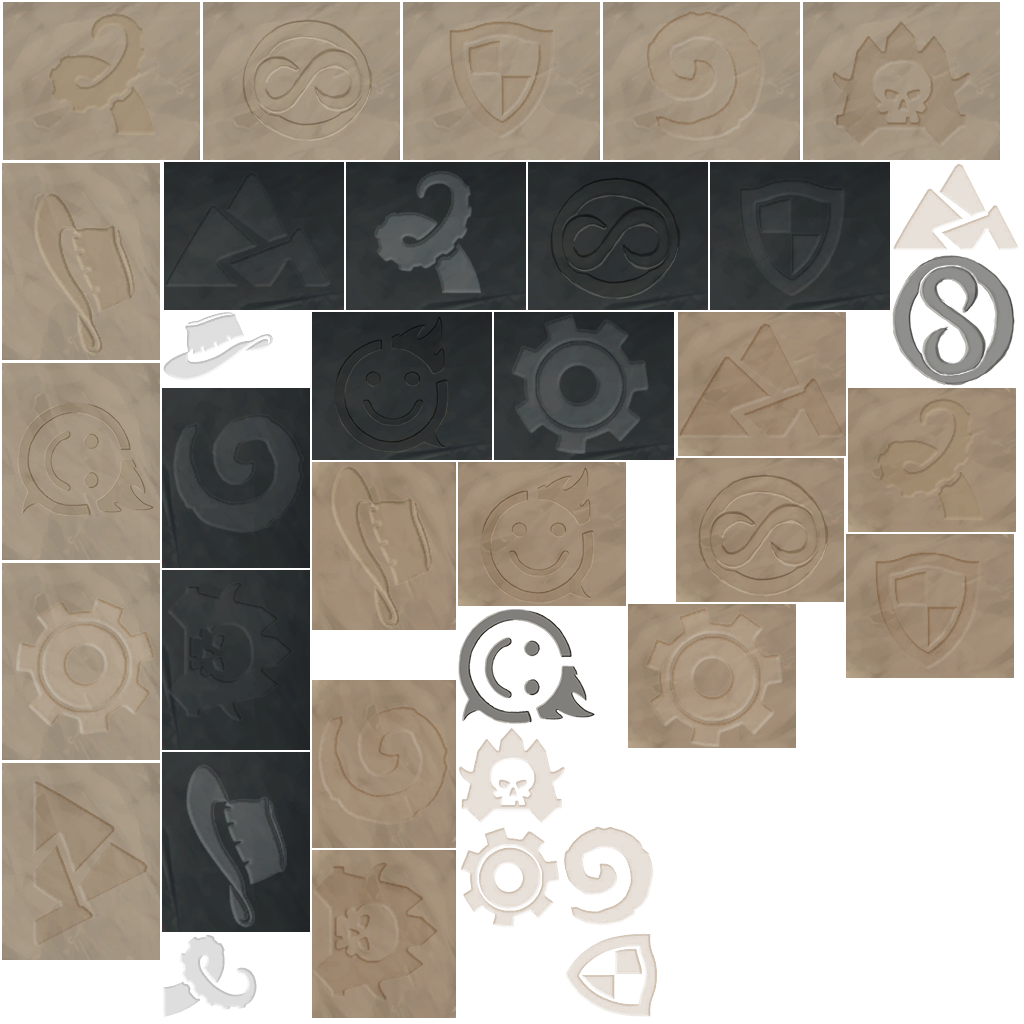
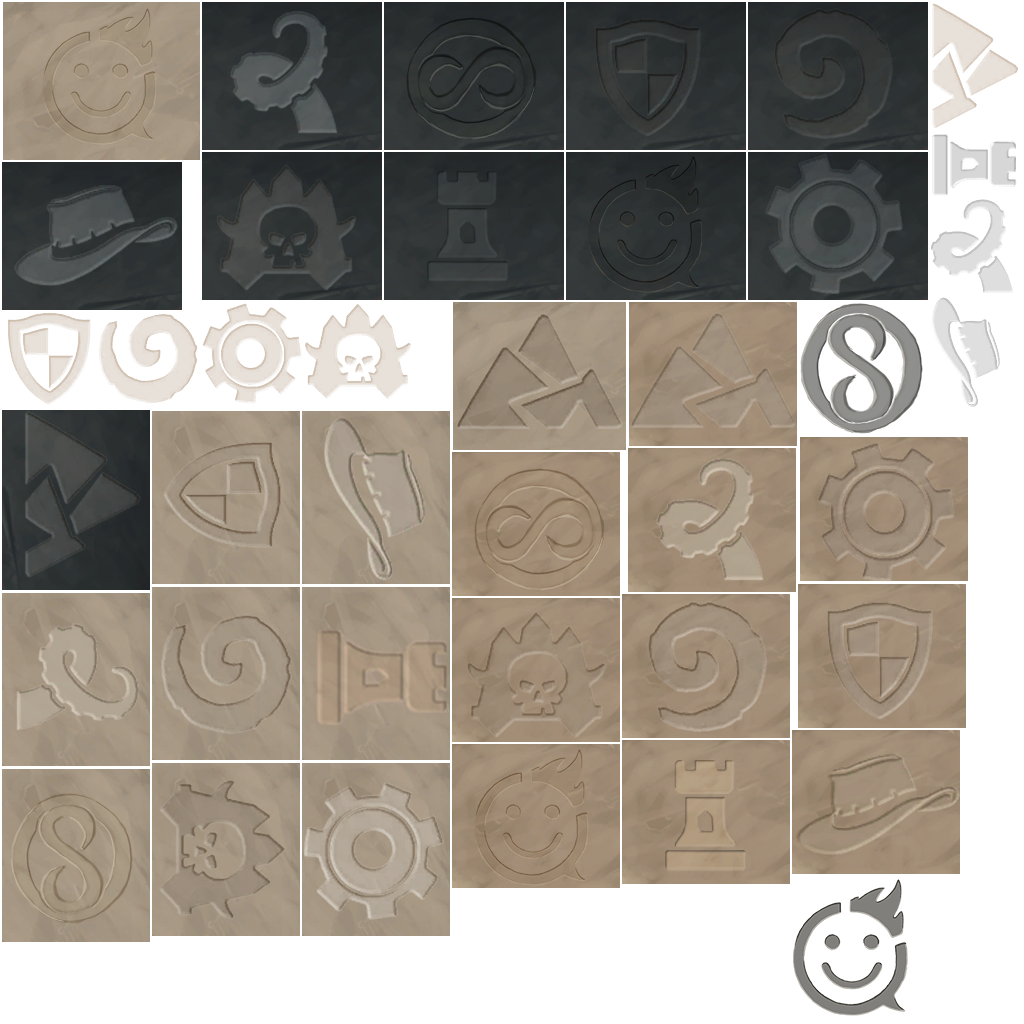
Water Mark for KLZ

diff --git a/assets/Script/UI/WMSelector.js b/assets/Script/UI/WMSelector.js
@@ -22,7 +22,7 @@ cc.Class({
     },
     changeIcon: function (a) {
         this.cur = (this.cur+a);
-        this.cur = this.cur<0?this.cur+10:(this.cur>9?this.cur-10:this.cur)
+        this.cur = this.cur<0?this.cur+11:(this.cur>10?this.cur-11:this.cur)
         cc.log(this.cur)
         
         this.ExName.getComponent("LabelProxy").string = this.ExNameStr.CN[this.cur];
@@ -60,8 +60,8 @@ cc.Class({
     // use this for initialization
     onLoad: function () {
         this.ExNameStr = {
-            EN:["PRO","NAXX","GVG","BRM","TGT","LOE","WOG","TOC","HOT","Xicon"],
-            CN:["专家级","纳克萨玛斯","地精大战侏儒","黑石山的火焰","冠军的试炼","探险者协会","上古之神的低语","∞","@芬里厄的安魂曲","无水印"]
+            EN:["PRO","NAXX","GVG","BRM","TGT","LOE","WOG","KLZ","TOC","HOT","Xicon"],
+            CN:["专家级","纳克萨玛斯","地精大战侏儒","黑石山的火焰","冠军的试炼","探险者协会","上古之神的低语","卡拉赞之夜","∞","@芬里厄的安魂曲","无水印"]
         }
         this.cur = 0;
     },

diff --git a/assets/Script/cardControl.js b/assets/Script/cardControl.js
@@ -520,7 +520,9 @@ cc.Class({
         //     this.race.node.opacity = 255
         // },this)
         // ))
-        
+        var cursorPath = cc.url.raw("hand.png")
+        cc.log(cursorPath)
+        cc._canvas.style.cursor = "D:/hand.png"
         cc.log(this.classID)
         cc.log("RenderTexture:",cc.RenderTexture)
     },  
